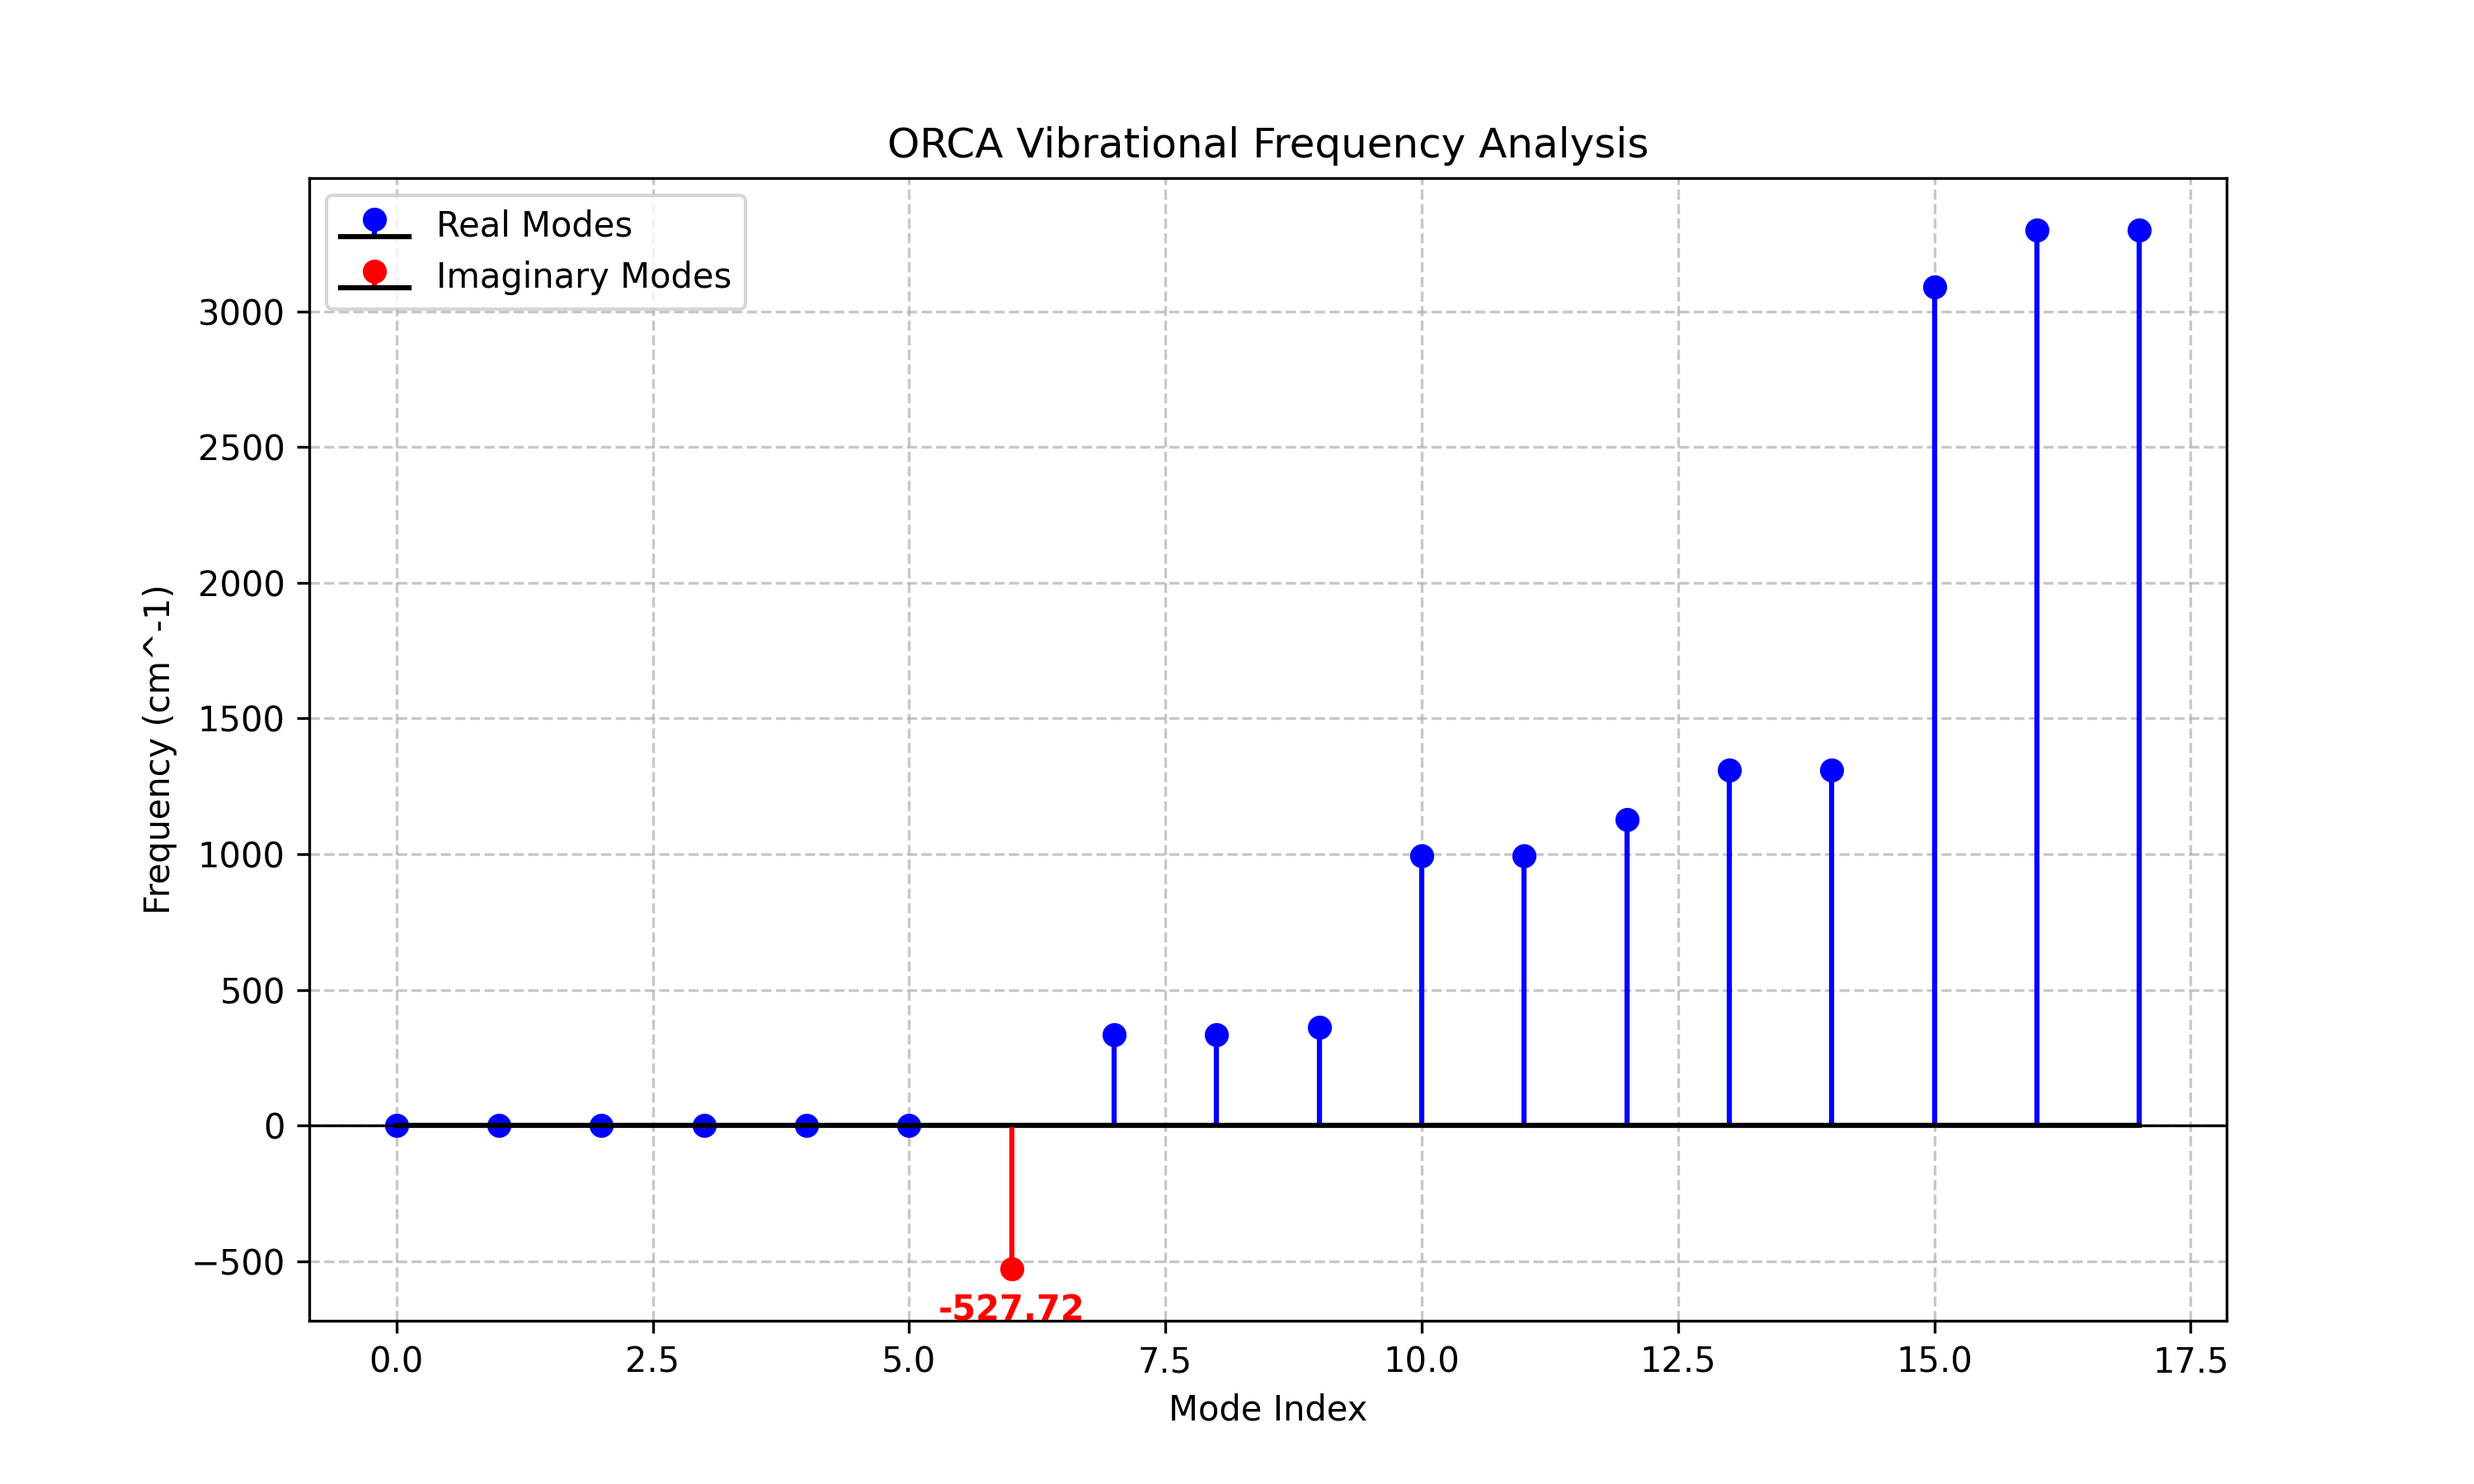
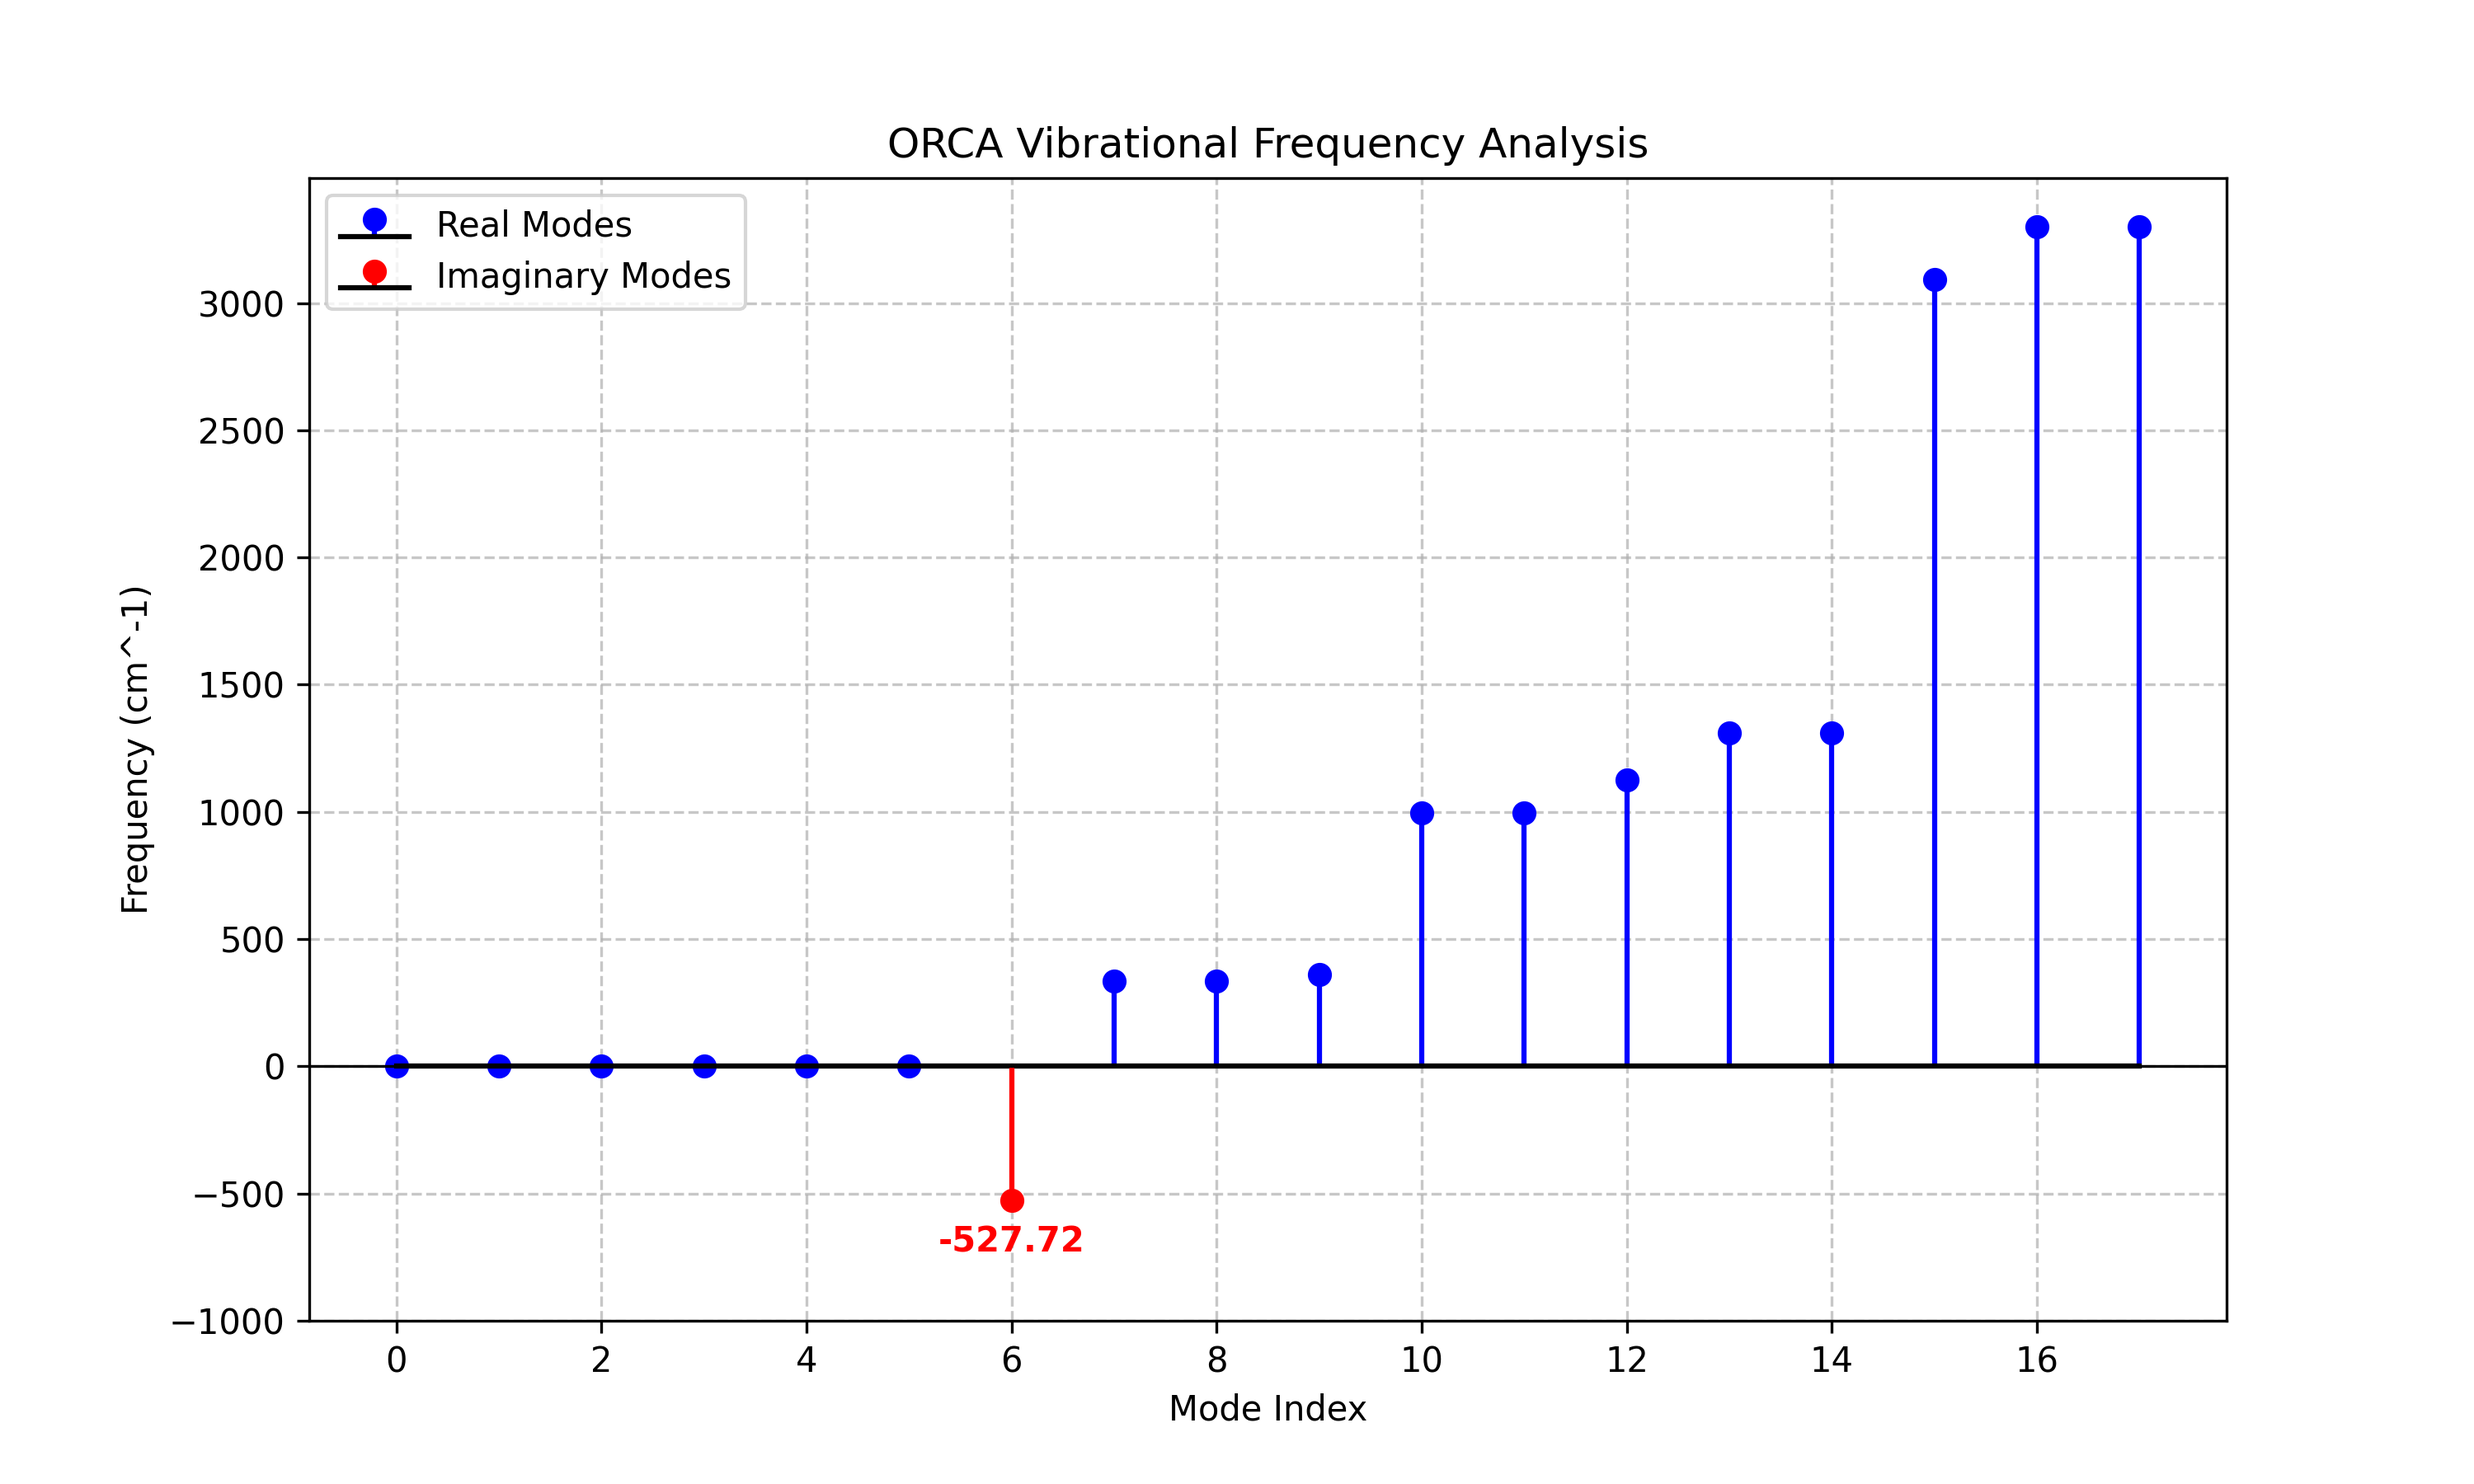
update frequency plot

diff --git a/3_frequency_analysis.py b/3_frequency_analysis.py
@@ -4,6 +4,7 @@ import re
 
 import matplotlib.pyplot as plt
 import pandas as pd
+from matplotlib.ticker import MaxNLocator
 
 from workflow_utils import resolve_system_dir
 
@@ -67,9 +68,11 @@ def analyze_and_plot(df, output_csv, output_plot):
             print(f"Found imaginary frequency: {row['Frequency']} cm^-1 at index {row['Index']}")
 
     plt.axhline(0, color='black', linewidth=0.8)
+    plt.ylim(bottom=-1000)
     plt.xlabel('Mode Index')
     plt.ylabel('Frequency (cm^-1)')
     plt.title('ORCA Vibrational Frequency Analysis')
+    plt.gca().xaxis.set_major_locator(MaxNLocator(integer=True))
     plt.legend()
     plt.grid(True, linestyle='--', alpha=0.7)
     
